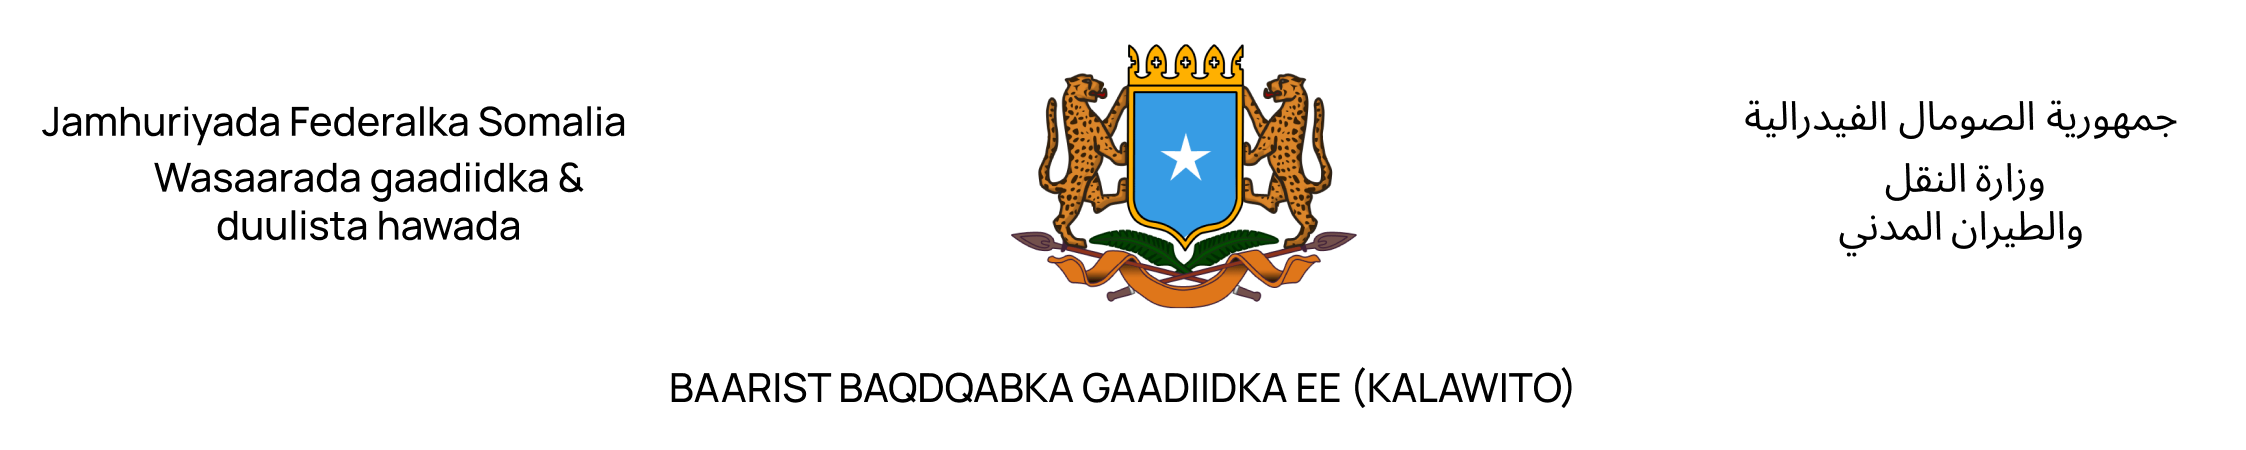
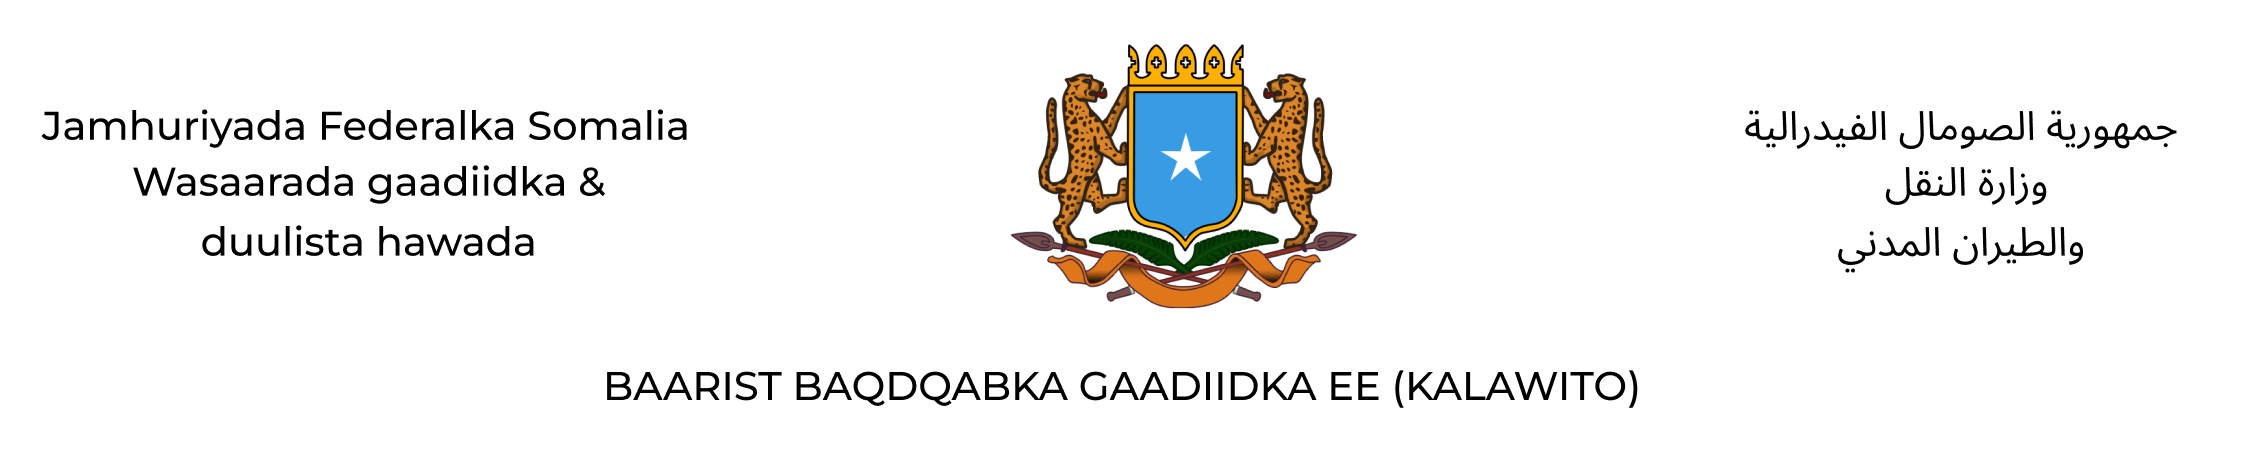
fixed reports headers

diff --git a/Templates/MOT/single_test_print.html b/Templates/MOT/single_test_print.html
@@ -81,30 +81,30 @@
                     <div class="">
                         <div class="d-flex align-items-center justify-content-start gap-3">
                             <h6 class="mb-0 text-black">Test #</h6>
-                            <p class="mb-0 fs-6">{{ test.test_num }}</p>
+                            <p class="mb-0 ">{{ test.test_num }}</p>
                         </div>
                         <div class="d-flex align-items-center justify-content-start gap-3 py-2">
                             <h6 class="mb-0 text-black">Auto Meter Read</h6>
-                            <p class="mb-0 fs-6">{{ test.test_meter }}</p>
+                            <p class="mb-0 ">{{ test.test_meter }}</p>
                         </div>
                         <div class="d-flex align-items-center justify-content-start gap-3">
                             <h6 class="mb-0 text-black">Owner Name</h6>
-                            <p class="mb-0 fs-6">{{ test.tested_vehicle.owner.full_name }}</p>
+                            <p class="mb-0 ">{{ test.tested_vehicle.owner.full_name }}</p>
                         </div>
                     </div>
                     {% comment %} the second div {% endcomment %}
                     <div>
                         <div class="d-flex align-items-center justify-content-start gap-3">
                             <h6 class="mb-0 text-black">Test Date</h6>
-                            <p class="mb-0 fs-6">{{ test.issue_date }}</p>
+                            <p class="mb-0 ">{{ test.issue_date }}</p>
                         </div>
                         <div class="d-flex align-items-center justify-content-start gap-3 py-2">
                             <h6 class="mb-0 text-black">Expire Date</h6>
-                            <p class="mb-0 fs-6">{{ test.expired_date }}</p>
+                            <p class="mb-0 ">{{ test.expired_date }}</p>
                         </div>
                         <div class="d-flex align-items-center justify-content-start gap-3">
                             <h6 class="mb-0 text-black">Mobile</h6>
-                            <p class="mb-0 fs-6">{{ test.tested_vehicle.owner.phone }}</p>
+                            <p class="mb-0 ">{{ test.tested_vehicle.owner.phone }}</p>
                         </div>
                     </div>
                 </div>

diff --git a/Templates/reports/company_print.html b/Templates/reports/company_print.html
@@ -72,30 +72,10 @@
         <div class="row mt-3 bg-white rounded pt-3 ps-3 pe-3 pb-3 hidden"
              id="customer-report-data">
             <div class="row d-flex align-items-center justify-content-center">
-                <div class="col">
-                    <p class=" fw-semibold text-center">
-                        Jamhuriyada Federalka Somalia
-                        <br>
-                        Wasaarada gaadiidka &
-                        <br>
-                        duulista hawada
-                    </p>
-                </div>
-                <div class="col text-center">
-                    <img src="{% static "assets/img/wlogo.png" %}" alt="Logo" height="90px"/>
-                </div>
-                <div class="col">
-                    <p class="fw-semibold text-center">
-                        جمهورية الصومال الفيدرالية
-                        <br>
-                        وزارة النقل
-                        <br>
-                        والطيران المدني
-                    </p>
-                </div>
-            </div>
-            <div class="d-flex alig-items-center justify-content-center">
-                <p class="fw-semibold mb-1 mt-2">Company Report</p>
+                <img src="{% static "assets/img/coreport.png" %}"
+                     alt="customer report header"
+                     width="100%"
+                     heigh="auto"/>
             </div>
             <hr>
             {% comment %} customer info {% endcomment %}
@@ -161,9 +141,7 @@
                                         <th class="wd-15p border-bottom-0">Vehicle ID</th>
                                         <th class="wd-15p border-bottom-0">MODEL - YEAR</th>
                                         <th class="wd-15p border-bottom-0">VIN</th>
-                                        <th class="wd-15p border-bottom-0">
-                                            ENGINE #
-                                        </th>
+                                        <th class="wd-15p border-bottom-0">ENGINE #</th>
                                         <th class="wd-15p border-bottom-0">
                                             COLOR
                                         </th>

diff --git a/Templates/reports/customer_print.html b/Templates/reports/customer_print.html
@@ -71,32 +71,10 @@
     <div class="container page_design">
         <div class="row mt-3 bg-white rounded pt-3 ps-3 pe-3 pb-3 hidden"
              id="customer-report-data">
-            <div class="row d-flex align-items-center justify-content-center">
-                <div class="col">
-                    <p class=" fw-semibold text-center">
-                        Jamhuriyada Federalka Somalia
-                        <br>
-                        Wasaarada gaadiidka &
-                        <br>
-                        duulista hawada
-                    </p>
-                </div>
-                <div class="col text-center">
-                    <img src="{% static "assets/img/wlogo.png" %}" alt="Logo" height="90px"/>
-                </div>
-                <div class="col">
-                    <p class="fw-semibold text-center">
-                        جمهورية الصومال الفيدرالية
-                        <br>
-                        وزارة النقل
-                        <br>
-                        والطيران المدني
-                    </p>
-                </div>
-            </div>
-            <div class="d-flex alig-items-center justify-content-center">
-                <p class="fw-semibold mb-1 mt-2">Customer Report</p>
-            </div>
+            <img src="{% static "assets/img/creport.png" %}"
+                 alt="customer report header"
+                 width="100%"
+                 heigh="auto"/>
             <hr>
             {% comment %} customer info {% endcomment %}
             <div class="row mt-3">
@@ -177,9 +155,7 @@
                 <h6>
                     LICENSE INFO
                     {% if found_license.status == 'Active' %}
-                        <span class="text-uppercase text-success">
-                            ({{ found_license.status }})
-                        </span>
+                        <span class="text-uppercase text-success">({{ found_license.status }})</span>
                     {% else %}
                         <span class="text-uppercase text-danger">
                             ({{ found_license.status }})

diff --git a/Templates/reports/company_report.html b/Templates/reports/company_report.html
@@ -2,33 +2,10 @@
 <div class="row mt-3 bg-white rounded pt-3 ps-3 pe-3 pb-3 hidden"
      id="company-report-data">
     <div class="row report-header">
-        <div class="col">
-            <p class=" fw-semibold text-center">
-                Jamhuriyada Federalka Somalia
-                <br>
-                Wasaarada gaadiidka &
-                <br>
-                duulista hawada
-            </p>
-        </div>
-        <div class="col text-center">
-            <img src="{% static "assets/img/wlogo.png" %}"
-                 alt="Logo"
-                 width="150"
-                 heigh="auto"/>
-        </div>
-        <div class="col">
-            <p class="fw-semibold text-center">
-                جمهورية الصومال الفيدرالية
-                <br>
-                وزارة النقل
-                <br>
-                والطيران المدني
-            </p>
-        </div>
-    </div>
-    <div class="d-flex alig-items-center justify-content-center">
-        <p class="fw-semibold mb-1 mt-2">Company Report</p>
+        <img src="{% static "assets/img/coreport.png" %}"
+             alt="customer report header"
+             width="100%"
+             heigh="auto"/>
     </div>
     <hr>
     {% comment %} customer info {% endcomment %}
@@ -95,9 +72,7 @@
                                 <th class="wd-15p text-white">Vehicle ID</th>
                                 <th class="wd-15p text-white">MODEL - YEAR</th>
                                 <th class="wd-15p text-white">VIN</th>
-                                <th class="wd-15p text-white">
-                                    ENGINE #
-                                </th>
+                                <th class="wd-15p text-white">ENGINE #</th>
                                 <th class="wd-15p text-white">
                                     COLOR
                                 </th>

diff --git a/Templates/reports/customer_report.html b/Templates/reports/customer_report.html
@@ -2,30 +2,10 @@
 <div class="row mt-3 bg-white rounded pt-3 ps-3 pe-3 pb-3 hidden"
      id="customer-report-data">
     <div class="row report-header">
-        <div class="col">
-            <p class=" fw-semibold text-center">
-                Jamhuriyada Federalka Somalia
-                <br>
-                Wasaarada gaadiidka &
-                <br>
-                duulista hawada
-            </p>
-        </div>
-        <div class="col text-center">
-            <img src="{% static "assets/img/wlogo.png" %}"
-                 alt="Logo"
-                 width="150"
-                 heigh="auto"/>
-        </div>
-        <div class="col">
-            <p class="fw-semibold text-center">
-                جمهورية الصومال الفيدرالية
-                <br>
-                وزارة النقل
-                <br>
-                والطيران المدني
-            </p>
-        </div>
+        <img src="{% static "assets/img/creport.png" %}"
+             alt="customer report header"
+             width="100%"
+             heigh="auto"/>
     </div>
     <div class="d-flex alig-items-center justify-content-center">
         <p class="fw-semibold mb-1 mt-2">Customer Report</p>

diff --git a/Customers/views.py b/Customers/views.py
@@ -189,7 +189,7 @@ def view_company(request):
             # for state user
             if request.user.is_state or request.user.is_admin:
                 companies = customer_model.company.objects.filter(federal_state=request.user.federal_state).filter(
-                    Q(firstname__icontains=SearchQuery)).order_by('-created_at')
+                    Q(company_name__icontains=SearchQuery)).order_by('-created_at')
             # for admin users
             else:
                 companies = customer_model.company.objects.filter(
@@ -201,9 +201,11 @@ def view_company(request):
             companies = customer_model.company.objects.filter(
                 Q(federal_state=request.user.federal_state)).order_by('-created_at')
             # paginate data
+
         paginator = Paginator(companies, DataNumber)
         page_number = request.GET.get('page')
         companies_obj = paginator.get_page(page_number)
+
         # pass company and data number down to the context
         context['total'] = len(companies)
         context['DataNumber'] = DataNumber
